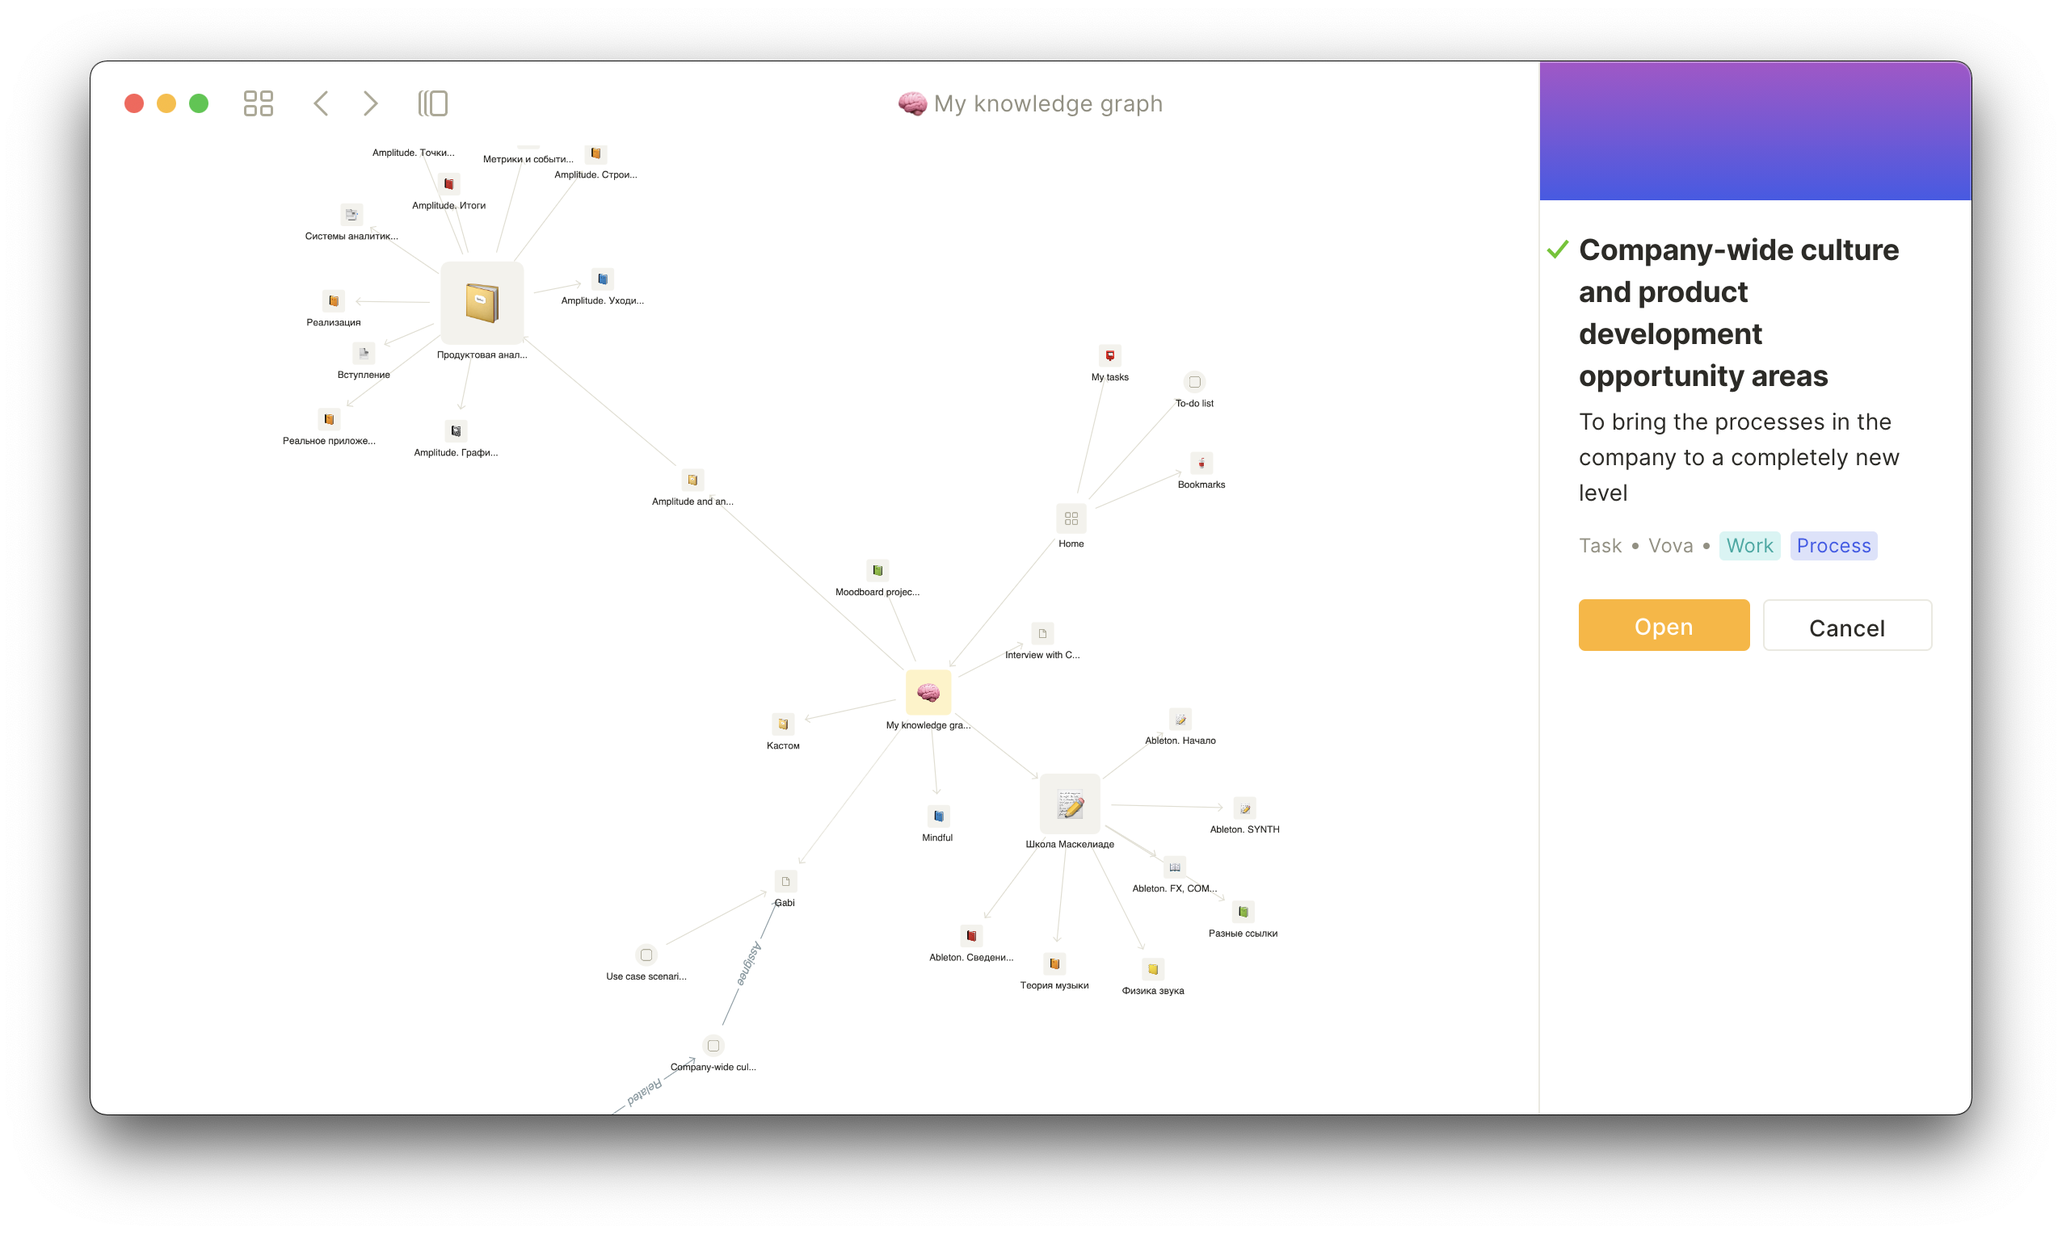
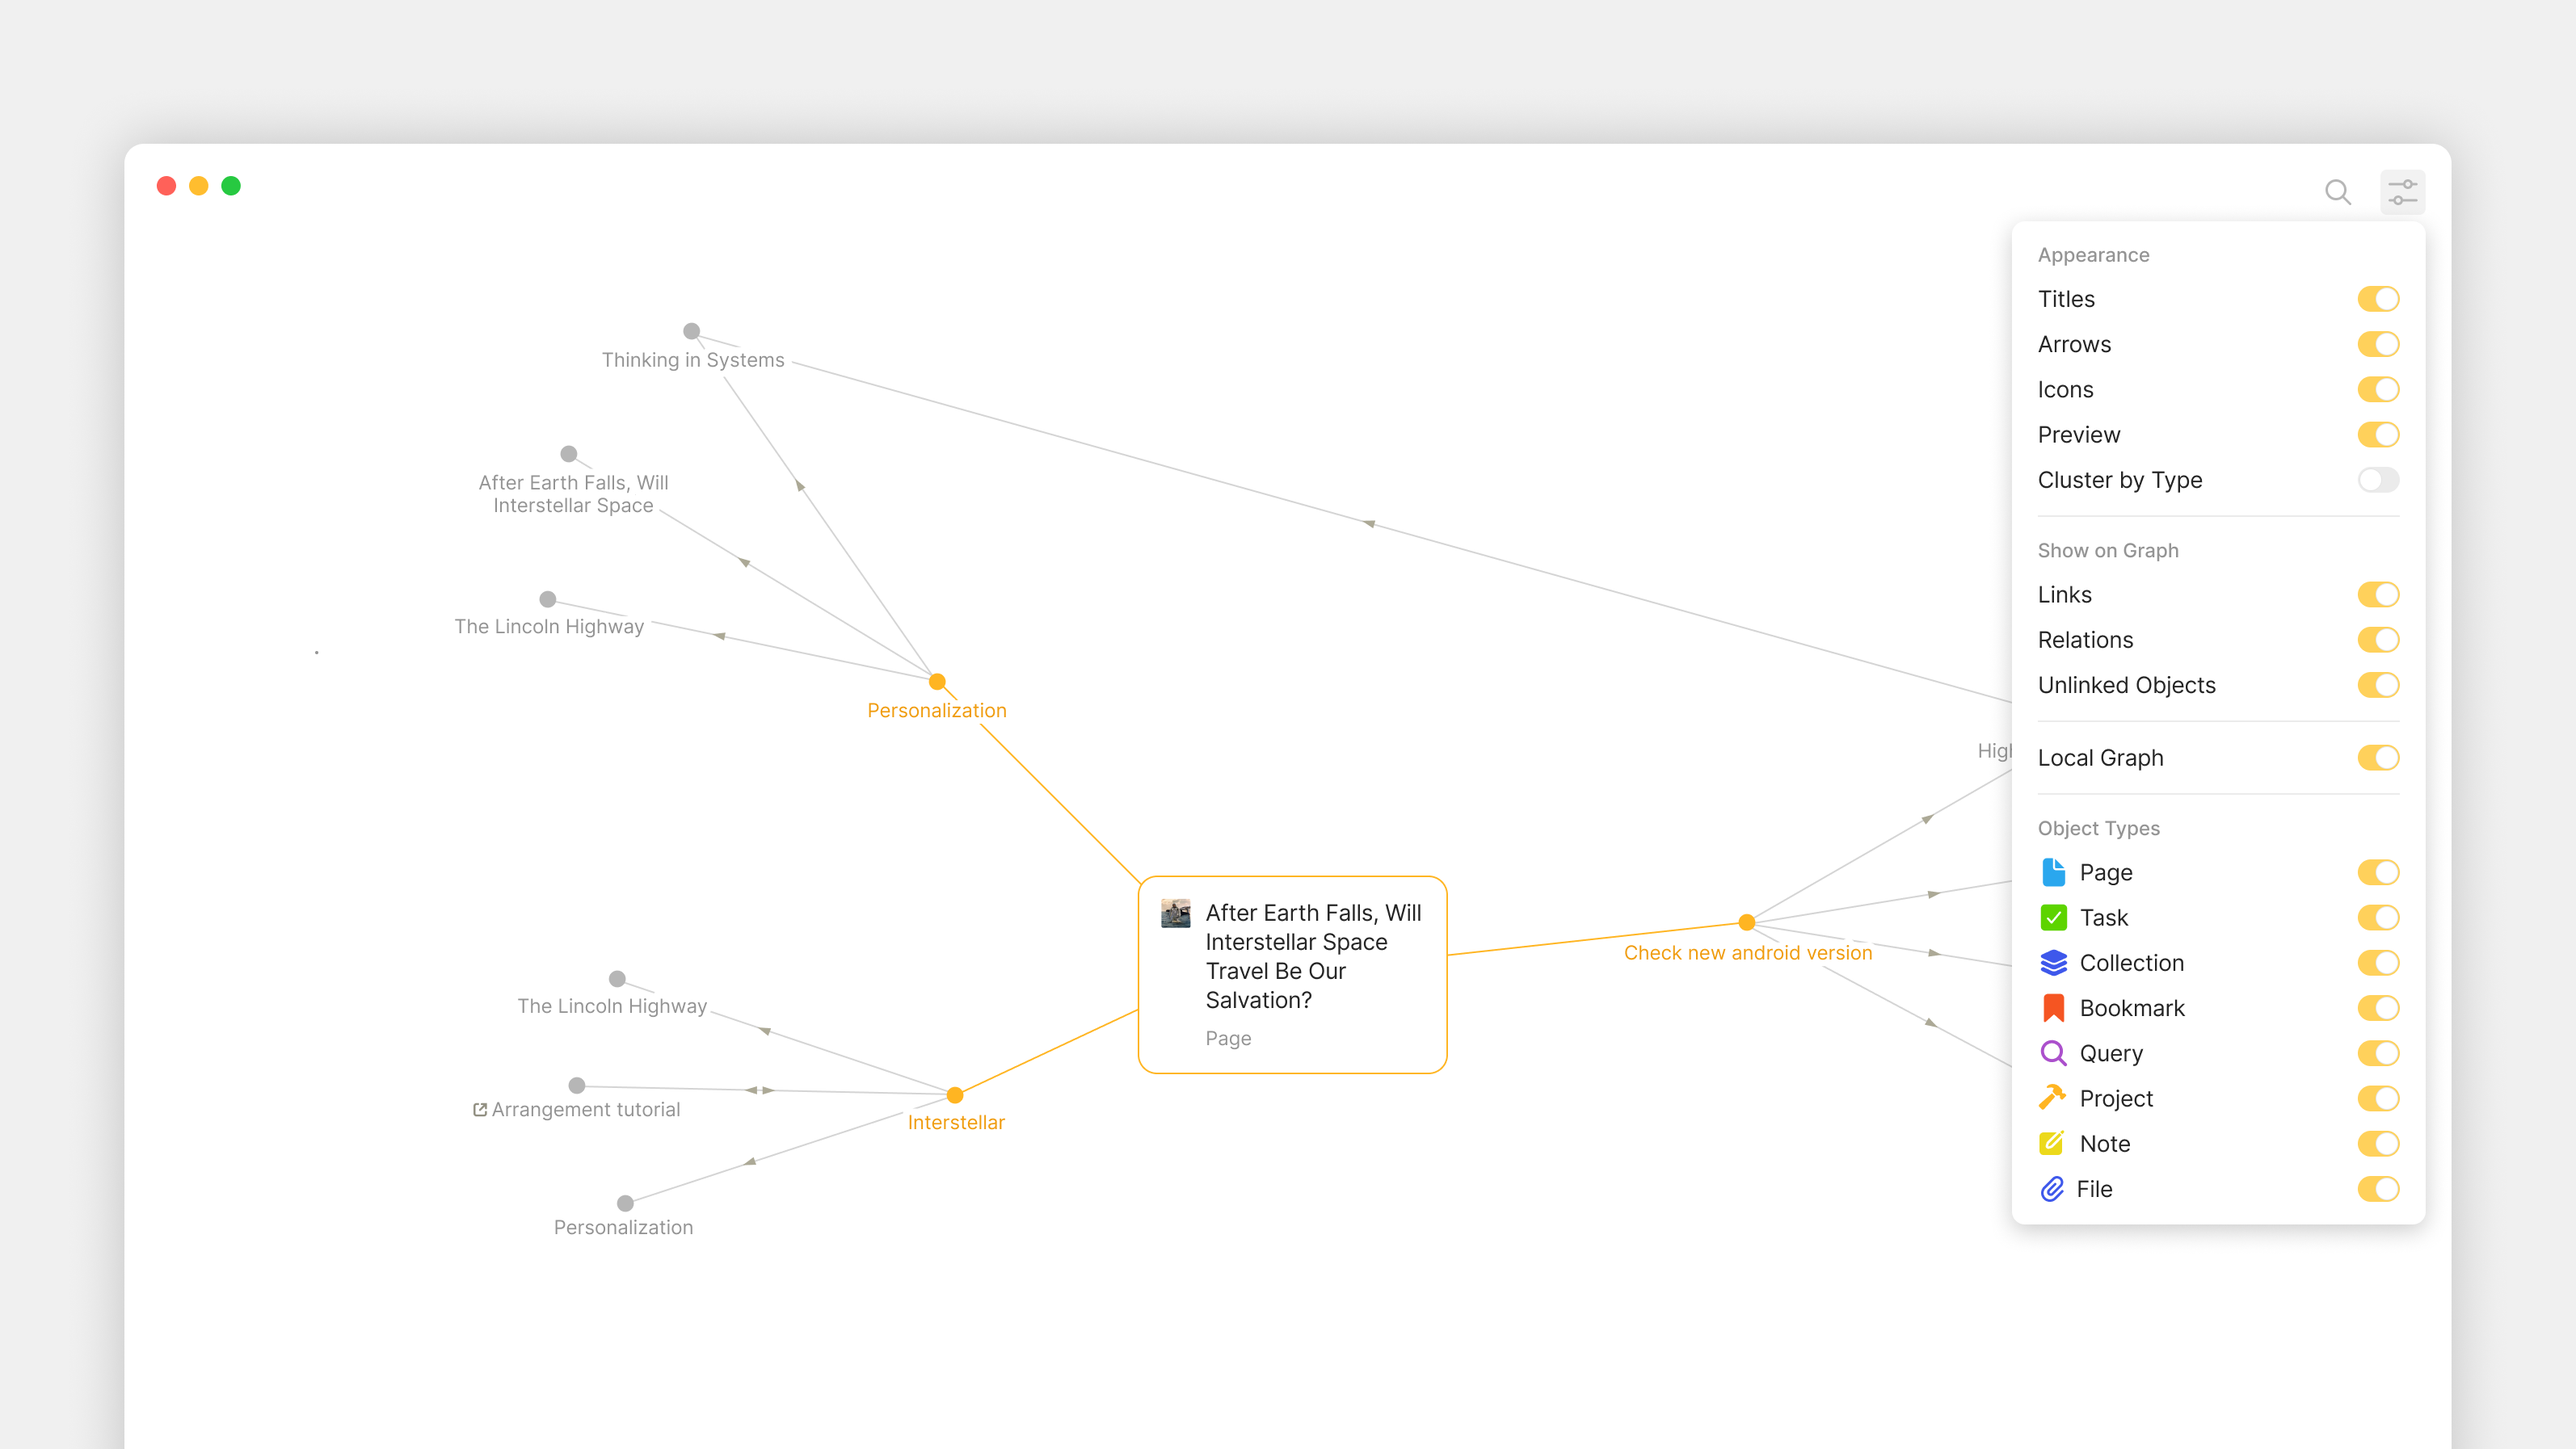
GITBOOK-26: No subject

diff --git a/advanced/feature-list-by-platform/graph.md b/advanced/feature-list-by-platform/graph.md
@@ -8,50 +8,24 @@ description: Visualize the connections between your Objects.
 
 The **Graph** is a live, visual map of every Object in your Channel and how they connect to each other. Each Object is a node; each link or Property reference is an edge. Open the Graph and you see your Channel's structure — what's central, what's isolated, what clusters around which projects.
 
-In other apps, this is sometimes called a "knowledge graph" or "mind map." In Anytype, it's not a separate feature — it's just another way of looking at the same data you already have.
-
-{% hint style="warning" %}
-The Graph is currently available on desktop only. A mobile version is in development.
-{% endhint %}
-
-### Why it matters
-
-Your sidebar shows what you've pinned. Your Queries show what matches a filter. The Graph shows **everything, and how it relates** — a perspective you can't get from any other view.
-
-This is useful when:
-
-- You want to find an Object you remember but can't name — looking at the cluster around the related project often reveals it
-- You're exploring a knowledge area and want to see what you've already written about it
-- You're cleaning up — Objects floating outside the main graph are often candidates for deletion or relinking
-- You're planning a project and want to see how it connects to existing work
-
 ### Opening the Graph
 
-The Graph icon (a small node-and-edge symbol) appears at the top of every Channel sidebar. Click it to switch to Graph view.
+The Graph icon (a small node-and-edge symbol) appears at the top of every Object. Click it to switch to Graph view.
+
+<figure><img src="../../.gitbook/assets/graph.png" alt=""><figcaption></figcaption></figure>
 
 You can also press the keyboard shortcut listed in your shortcut settings to open Graph from any Object.
 
-<figure><img src="../../.gitbook/assets/image (105).png" alt="" width="375"><figcaption></figcaption></figure>
-
 ### Reading the Graph
 
-Each **node** is an Object. Hover over a node to see its title, Type, and any other Properties you've enabled in the display settings.
+Each **node** is an Object. Hover over a node to see its title and Type.
 
 Each **edge** (line connecting two nodes) represents a relationship — either a link in the editor, an Object Property pointing to another Object, or a backlink.
 
 The **direction of the edge** (when arrows are enabled) shows which Object references which:
 
-- A → B means Object A links to or references Object B
-- A bidirectional connection (A ↔ B) means both link to each other
-
-**Cluster patterns** emerge naturally:
-
-- **Hubs** — Objects with many connections, typically projects, indexes, or central concepts
-- **Clusters** — groups of Objects densely linked to each other (a project team, a topic, a course)
-- **Bridges** — Objects that connect two otherwise separate clusters
-- **Orphans** — Objects with no connections (often candidates for cleanup or relinking)
-
-<figure><img src="../../.gitbook/assets/image (108).png" alt="" width="563"><figcaption></figcaption></figure>
+* A → B means Object A links to or references Object B
+* A bidirectional connection (A ↔ B) means both link to each other
 
 ### Display settings
 
@@ -59,16 +33,15 @@ Click the gear icon (or settings menu) on the top right of the Graph view to acc
 
 #### Appearance
 
-- **Show titles** — display Object names next to each node (toggle off for a cleaner view)
-- **Show arrows** — show edge direction
-- **Show icons** — display Object icons at each node
-- **Node size** — change how prominently nodes are drawn
+* **Show titles** — display Object names next to each node (toggle off for a cleaner view)
+* **Show arrows** — show edge direction
+* **Show icons** — display Object icons at each node
 
 #### Connections
 
-- **Show links** — show editor links between Objects
-- **Show Properties** — show Object Property relationships
-- **Show backlinks** — show implied connections from Objects pointing back
+* **Show links** — show editor links between Objects
+* **Show Properties** — show Object Property relationships
+* **Show Unlinked** — show Objects with no connections (Orphans)
 
 Each toggle changes the Graph in real time. You can build a focused view (e.g., "show only Property connections, hide editor links") to study one type of relationship at a time.
 
@@ -78,66 +51,15 @@ The **Filter by Types** menu lets you show only certain Object Types in the Grap
 
 1. Click the filter icon.
 2. Toggle Types on or off.
-3. Use the **Hide all** toggle to clear everything quickly, then enable just the Types you want to see.
 
 This is the fastest way to study a slice — for example, "show only Tasks and Projects" to see how your work breaks down.
 
-#### Unlinked Objects
-
-By default, the Graph shows only connected Objects. To include orphans:
-
-1. Open Graph display settings.
-2. Toggle on **Show unlinked Objects**.
-
-Unlinked Objects appear floating around the main graph. This is the best way to find Objects you've forgotten about.
-
-<figure><img src="../../.gitbook/assets/image (222).png" alt="" width="288"><figcaption></figcaption></figure>
-
 ### Search in the Graph
 
-The search box at the top of the Graph lets you find specific Objects:
+The search at the top of the Graph lets you find specific Objects:
 
-- Type any portion of an Object's title to highlight matching nodes
-- Press Enter to navigate to the first match
-- Use arrow keys to cycle through matches
+* Type any portion of an Object's title to highlight matching nodes
+* Press Enter to navigate to the first match
+* Use arrow keys to cycle through matches
 
 Matched nodes are highlighted; the rest of the Graph dims so you can see them at a glance.
-
-### Navigating from the Graph
-
-- **Click any node** to open that Object
-- **Right-click any node** for the standard Object context menu (open in tab, link to, delete, etc.)
-- **Drag the canvas** to pan around
-- **Scroll** to zoom in and out
-- Use the **+ / -** buttons in the corner for precise zoom control
-- Click the **center** button to reset the view
-
-### Performance
-
-The Graph renders all Objects in your current Channel. In Channels with thousands of Objects, the Graph may take a moment to load and can become visually dense.
-
-To make the Graph more usable in large Channels:
-
-- **Filter by Type** — show only the Types relevant to what you're studying
-- **Hide unlinked Objects** — keep the focus on the connected core
-- **Use Properties off** — Property edges add a lot of lines; toggling them off simplifies the view
-
-### Differences from the Channel Graph and the Vault Graph
-
-Each Channel has its own Graph — the Graph view inside a Channel only shows that Channel's Objects. Connections across Channels (e.g., a link from a Personal Channel to a Team Channel) are not represented in either Channel's Graph.
-
-A future feature is being explored to provide a Vault-wide Graph that spans all your Channels. For now, treat the Graph as a per-Channel tool.
-
-### Tips
-
-{% hint style="info" %}
-**Use the Graph as a "did I forget about this?" check.** Open the Graph with unlinked Objects shown — anything floating disconnected is something you should either delete, archive, or connect to your active work.
-{% endhint %}
-
-{% hint style="info" %}
-**Filter to a single Type to study structure.** Filtering to only "Project" Objects, for example, shows you how your projects relate to each other (via shared people, shared tasks, etc.) without the noise of every note.
-{% endhint %}
-
-{% hint style="info" %}
-**Right-click → Open in Tab** to keep the Graph open while exploring. The Graph stays in one tab; you open Objects in others. See [Tabs](tabs.md).
-{% endhint %}

diff --git a/getting-started/web-publishing.md b/getting-started/web-publishing.md
@@ -23,8 +23,6 @@ With Web Publishing, the Object you've already written is the published page. Up
 
 Within a few seconds, your Object is live at `<your-any-id>.any.org/<slug>`. Copy the URL or share directly from the dialog.
 
-<figure><img src="../.gitbook/assets/published-to-web.png" alt=""><figcaption></figcaption></figure>
-
 ### Updating a published page
 
 Edit the Object normally. Your edits don't auto-publish — you have to republish to push changes:
